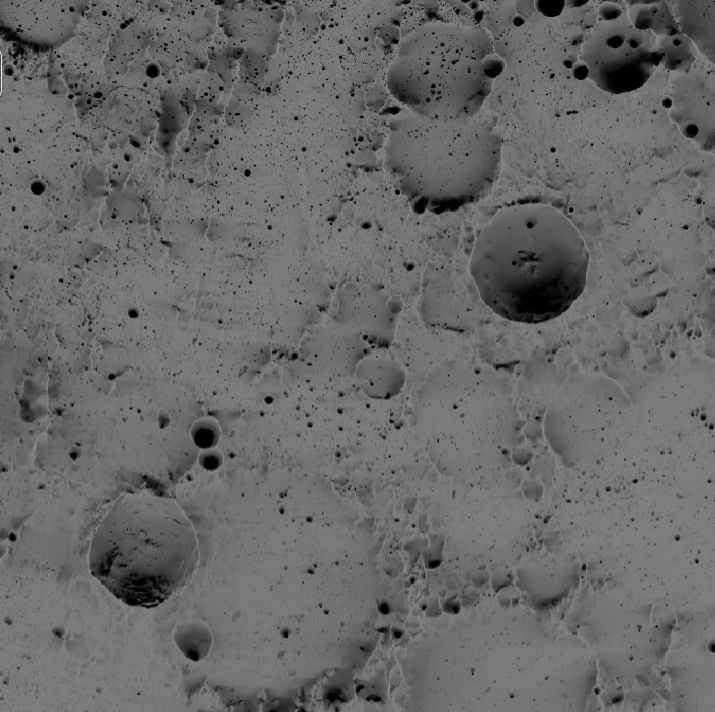
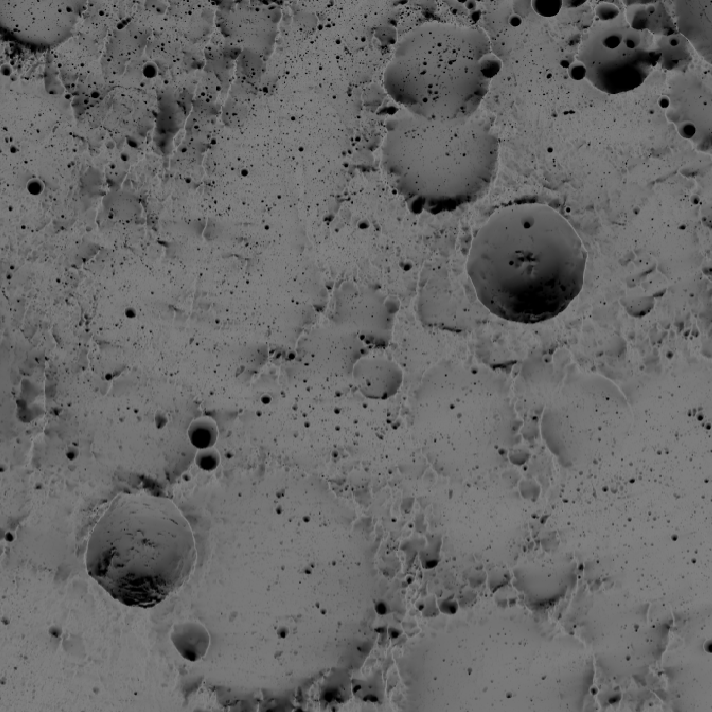
Added Images

diff --git a/EnvironmentCharacteristics/Illumination.py b/EnvironmentCharacteristics/Illumination.py
@@ -1,12 +1,77 @@
 import imageio.v3 as iio
 import numpy as np
 import matplotlib.pyplot as plt
-
-im = iio.imread('.//Media//Illumination.png')
-av = np.average(im, axis=2)
-av = av/256
-
-plt.imshow(av)
+import scipy.ndimage as ndimage
+import pickle
+import cv2
 
 
-av_lp = np.gradient(np.gradient(av))
+#----- Download media --------
+illumination = iio.imread('.//Media//1_Illumination.png')
+PWEH = iio.imread('.//Media//2_PolarWaterEquivalentHydrogen.png')
+Olivine = iio.imread('.//Media//3_Olivine.png')
+Plagioclase = iio.imread('.//Media//4_Plagioclase.png')
+HCP = iio.imread('.//Media//5_HighCalciumPyroxene.png')
+CrustalThickness = iio.imread('.//Media//6_CrustalThickness.png')
+Height = iio.imread('.//Media//7_TerrainHeight.png')
+PSR = iio.imread('.//Media//8_PSR.png')
+
+
+# ----- Transform into array -------
+
+Image_1 = np.average(illumination, axis=2)
+Image_2 = np.average(PWEH, axis=2)
+Image_3 = np.average(Olivine, axis=2)
+Image_4 = np.average(Plagioclase,axis =2)
+Image_5 = np.average(HCP, axis=2)
+Image_6 = np.average(CrustalThickness, axis=2)
+Image_7 = np.average(Height, axis=2)
+Image_8 = np.average(PSR, axis=2)
+
+Image_list = [Image_1,Image_2,Image_3,Image_4,Image_5,Image_6,Image_7,Image_8]
+
+#--------- Normalize -----------------
+
+for image in Image_list:
+    image = image/256
+
+#--------- Laplace Operator ---------------
+Image_edge_list = []
+
+for image in Image_list:
+    Image_edge_list. append(ndimage.laplace(image))
+
+#------- Increase contrast ---------
+for image in Image_edge_list:
+    p1,p99 = np.percentile(image, (1,99))
+    image = np.clip((image - p1) / (p99 - p1), 0 ,1)
+    #plt.imshow(image,cmap='magma',alpha = 0.6)
+
+
+# ----- Import saved discretised data -----
+
+file = ".//Mesh//discretized_data.pkl"
+with open(file, 'rb') as f:
+        X, Y, elevation, test_grid = pickle.load(f)
+
+test_grid_flipped = np.flipud(test_grid)
+
+imp = ndimage.laplace(test_grid_flipped)
+p1_,p99_ = np.percentile(imp, (1, 99))
+stretched_imp = np.clip((imp - p1_) / (p99_ - p1_), 0, 1)
+
+plt.imshow(stretched_imp, cmap='gray',alpha = 1)
+plt.show()
+
+
+'''
+# Resize the images to the same size
+stretched_ima_resized = cv2.resize(stretched_ima, (test_grid_flipped.shape[1], test_grid_flipped.shape[0]))
+
+# Combine the images by adding them together
+combined_image = cv2.addWeighted(stretched_ima_resized, 0.5, stretched_imp, 0.5, 0)
+
+# Display the combined image
+plt.imshow(combined_image, cmap='gray')
+plt.show()
+'''

diff --git a/Visualize/MapVisualize.py b/Visualize/MapVisualize.py
@@ -1,5 +1,7 @@
 import pickle
 from matplotlib import pyplot
+import imageio.v3 as iio
+
 
 # ------- Import Discretized Data and Test Grid -------
 
@@ -18,3 +20,5 @@ def plot_grid(X, Y, elevation):
     axes.plot_surface(X, Y, elevation, cmap='Spectral')
     pyplot.show()
 
+def illumination():
+     return 'hello'
